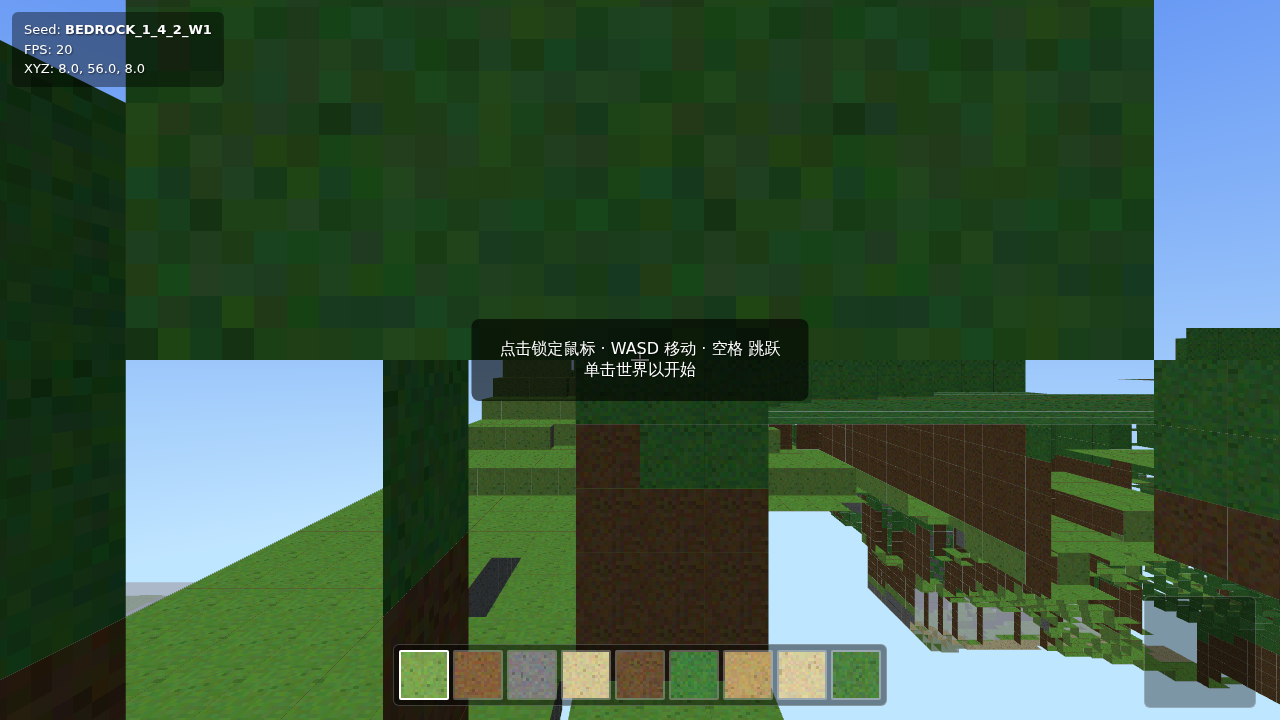
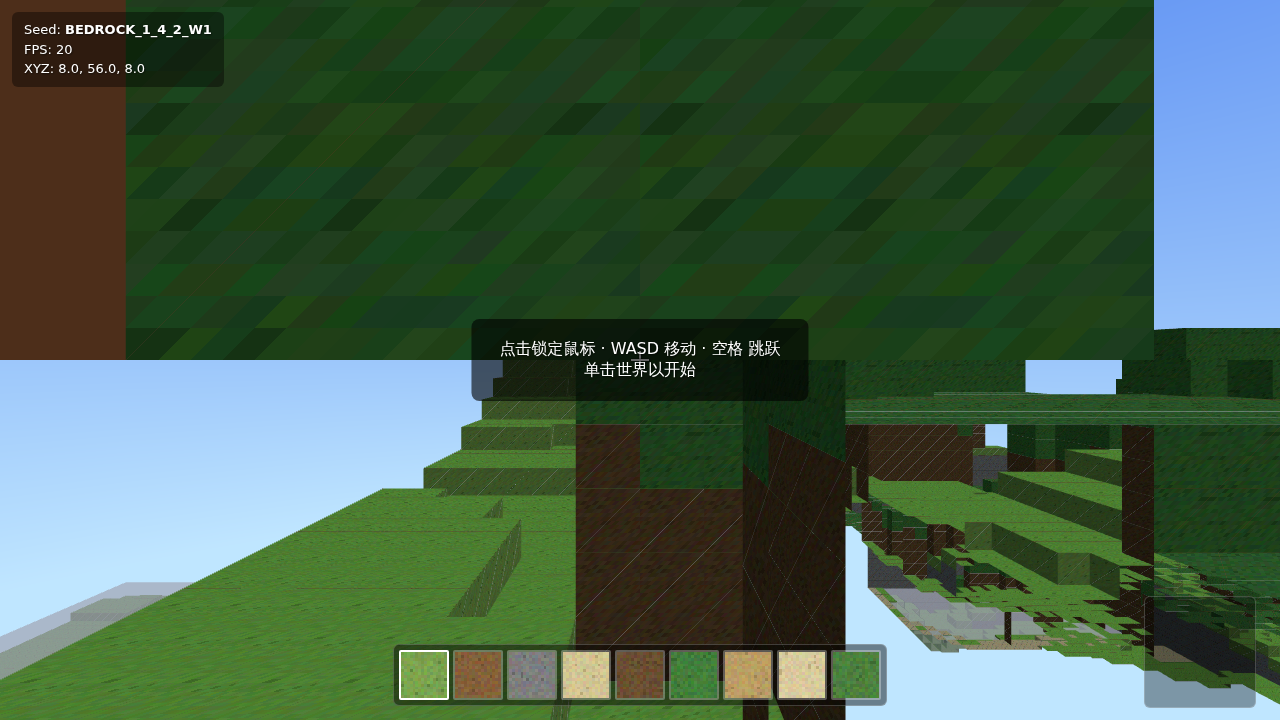
W1 返工: 修复 +X/-X 面绕序内翻致翻转/空洞伪影, 提高渲染 FPS 至 33+(软件渲染) (MUL-71)
- mesher.pushFace 改为按面质心重排4顶点为外法向 CCW, 六面绕序全部外向; 新增回归测试验证每三角形绕序与顶点法向一致(flipped=0)
- 性能: 渲染距离3 + 像素比上限1.5 + 关软件MSAA + 每分块视锥剔除
- 证据: headless Chromium1208+SwiftShader 稳定 FPS desktop 33.2 / small 52.4, 0 阻断错误, 多视角双尺寸截图 screenshots/w1-BEDROCK_1_4_2_W1/, 报告更新

diff --git a/src/render/engine.js b/src/render/engine.js
@@ -6,8 +6,12 @@ import { CHUNK_SIZE, RENDER_DISTANCE, WORLD_HEIGHT } from "../config.js";
 
 export class Engine {
   constructor(container) {
-    this.renderer = new THREE.WebGLRenderer({ antialias: true });
-    this.renderer.setPixelRatio(window.devicePixelRatio);
+    this.renderer = new THREE.WebGLRenderer({
+      antialias: false, // software AA is costly; voxels don't need it
+      powerPreference: "high-performance",
+    });
+    // cap pixel ratio to bound fill cost on hi-DPI displays (perf target ~30fps)
+    this.renderer.setPixelRatio(Math.min(window.devicePixelRatio || 1, 1.5));
     this.renderer.setSize(container.clientWidth, container.clientHeight);
     this.renderer.setClearColor(0x87ceeb, 1);
     container.appendChild(this.renderer.domElement);
@@ -64,19 +68,18 @@ export class Engine {
 
     this.chunkGroup = new THREE.Group();
     this.scene.add(this.chunkGroup);
-    this.loaded = new Set();
-    this.chunkMeshes = new Map(); // key -> THREE.Group
+    this.chunkMeshes = new Map(); // key -> { opaque, water } meshes (per-chunk frustum culling)
   }
 
   updateChunks(world, playerChunkX, playerChunkZ) {
     // unload far chunks
-    for (const [k, group] of Array.from(this.chunkMeshes)) {
+    for (const [k, pair] of Array.from(this.chunkMeshes)) {
       const [cx, cz] = k.split(",").map(Number);
       if (Math.abs(cx - playerChunkX) > RENDER_DISTANCE + 1 || Math.abs(cz - playerChunkZ) > RENDER_DISTANCE + 1) {
         world.unloadChunk(cx, cz);
-        this.chunkGroup.remove(group);
+        this.chunkGroup.remove(pair.g);
+        pair.g.traverse((o) => o.geometry && o.geometry.dispose());
         this.chunkMeshes.delete(k);
-        this.loaded.delete(k);
       }
     }
     // load + mesh nearby
@@ -86,15 +89,18 @@ export class Engine {
         if (this.chunkMeshes.has(k)) continue;
         world.ensureChunk(cx, cz);
         const mesh = meshChunk(world, cx, cz);
-        const group = new THREE.Group();
-        if (mesh.opaque) group.add(new THREE.Mesh(mesh.opaque, this.texMat));
-        if (mesh.water) group.add(new THREE.Mesh(mesh.water, this.waterMat));
-        group.position.set(0, 0, 0); // built in world coords
-        this.chunkGroup.add(group);
-        this.chunkMeshes.set(k, group);
-        this.loaded.add(k);
+        const g = new THREE.Group();
+        if (mesh.opaque) g.add(new THREE.Mesh(mesh.opaque, this.texMat));
+        if (mesh.water) g.add(new THREE.Mesh(mesh.water, this.waterMat));
+        g.position.set(0, 0, 0); // built in world coords
+        this.chunkGroup.add(g);
+        this.chunkMeshes.set(k, { g, opaque: mesh.opaque, water: mesh.water });
       }
     }
+  }
+
+  disposeGeom(g) {
+    if (g) g.dispose();
   }
 
   resize(w, h) {

diff --git a/src/world/mesher.js b/src/world/mesher.js
@@ -37,18 +37,45 @@ function faceFor(blockValue, axis, corner) {
   return uvs;
 }
 
-// Emit one cube face. out: { positions, normals, uvs, indices }
+// Emit one cube face. Sorts the 4 corners into a proper CCW cyclic order around
+// the face centroid (guarantees outward winding on every axis) so a
+// front-face-culled material never drops or flips a side. out: geometry arrays.
 function pushFace(out, cx, cy, cz, corners, normal, uvTile) {
+  const c = corners.map((p) => [cx + p[0], cy + p[1], cz + p[2]]);
+  // face-plane basis (u = an edge direction, v = normal x u)
+  const u = [c[1][0] - c[0][0], c[1][1] - c[0][1], c[1][2] - c[0][2]];
+  const v = [
+    normal[1] * u[2] - normal[2] * u[1],
+    normal[2] * u[0] - normal[0] * u[2],
+    normal[0] * u[1] - normal[1] * u[0],
+  ];
+  const ox = (c[0][0] + c[1][0] + c[2][0] + c[3][0]) / 4;
+  const oy = (c[0][1] + c[1][1] + c[2][1] + c[3][1]) / 4;
+  const oz = (c[0][2] + c[1][2] + c[2][2] + c[3][2]) / 4;
+  // cyclic order by angle around the centroid in the (u,v) plane
+  const withA = c.map((p) => {
+    const dx = p[0] - ox, dy = p[1] - oy, dz = p[2] - oz;
+    return { a: Math.atan2(dx * v[0] + dy * v[1] + dz * v[2], dx * u[0] + dy * u[1] + dz * u[2]), p };
+  });
+  withA.sort((a, b) => a.a - b.a);
+  const sorted = withA.map((w) => w.p);
+  // orient CCW to match the outward normal
+  const e1 = [sorted[1][0] - sorted[0][0], sorted[1][1] - sorted[0][1], sorted[1][2] - sorted[0][2]];
+  const e2 = [sorted[2][0] - sorted[0][0], sorted[2][1] - sorted[0][1], sorted[2][2] - sorted[0][2]];
+  const cr = [e1[1] * e2[2] - e1[2] * e2[1], e1[2] * e2[0] - e1[0] * e2[2], e1[0] * e2[1] - e1[1] * e2[0]];
+  const order = cr[0] * normal[0] + cr[1] * normal[1] + cr[2] * normal[2] > 0
+    ? sorted
+    : [sorted[3], sorted[2], sorted[1], sorted[0]];
+
   const base = out.positions.length / 3;
-  for (const c of corners) {
-    out.positions.push(cx + c[0], cy + c[1], cz + c[2]);
+  for (const p of order) {
+    out.positions.push(p[0], p[1], p[2]);
     out.normals.push(normal[0], normal[1], normal[2]);
   }
   const { u0, v0, u1, v1 } = tileUV(uvTile);
-  // 4 texture corners
   out.uvs.push(u0, v1, u1, v1, u0, v0, u1, v0);
-  // two triangles
-  out.indices.push(base, base + 1, base + 2, base + 1, base + 3, base + 2);
+  // two triangles, both CCW for a CCW quad
+  out.indices.push(base, base + 1, base + 2, base, base + 2, base + 3);
 }
 
 // Mesh a chunk. `world` provides getColumn(wx,wz) -> column array (bottom->top).

diff --git a/test/mesher.test.js b/test/mesher.test.js
@@ -49,4 +49,27 @@ describe("chunk meshing", () => {
     const mb = meshChunk(b, 0, 0);
     expect(ma.opaque.getIndex().count).toBe(mb.opaque.getIndex().count);
   });
+
+  it("every triangle winds outward (matches its vertex normal) — no flipped/hole faces", () => {
+    const w = new World("BEDROCK_1_4_2_W1");
+    warmChunks(w);
+    const m = meshChunk(w, 0, 0);
+    const geo = m.opaque;
+    const pos = geo.getAttribute("position");
+    const nrm = geo.getAttribute("normal");
+    const idx = geo.getIndex().array;
+    let flipped = 0;
+    for (let t = 0; t < idx.length; t += 3) {
+      const a = idx[t] * 3, b = idx[t + 1] * 3, c = idx[t + 2] * 3;
+      const ax = pos.getX(idx[t]), ay = pos.getY(idx[t]), az = pos.getZ(idx[t]);
+      const e1x = pos.getX(idx[t + 1]) - ax, e1y = pos.getY(idx[t + 1]) - ay, e1z = pos.getZ(idx[t + 1]) - az;
+      const e2x = pos.getX(idx[t + 2]) - ax, e2y = pos.getY(idx[t + 2]) - ay, e2z = pos.getZ(idx[t + 2]) - az;
+      const nx = e1y * e2z - e1z * e2y;
+      const ny = e1z * e2x - e1x * e2z;
+      const nz = e1x * e2y - e1y * e2x;
+      const vn = nrm.getX(idx[t]) * nx + nrm.getY(idx[t]) * ny + nrm.getZ(idx[t]) * nz;
+      if (vn < 0) flipped++;
+    }
+    expect(flipped).toBe(0);
+  });
 });

diff --git a/src/config.js b/src/config.js
@@ -11,7 +11,7 @@ export const DEEP_OCEAN_THRESHOLD = 15; // height below which ocean is "deep"
 export const SHALLOW_OCEAN_THRESHOLD = SEA_LEVEL - 6;
 
 // Render distance in chunks around the player.
-export const RENDER_DISTANCE = 4;
+export const RENDER_DISTANCE = 3;
 
 // World-gen noise scales.
 export const HEIGHT_SCALE = 0.0065;

diff --git a/src/main.js b/src/main.js
@@ -69,6 +69,12 @@ function init() {
     engine.render();
   }
   requestAnimationFrame(loop);
+
+  // debug/evidence surface (used by headless screenshot & reviewers)
+  window.__voxel = {
+    player, world, engine, hud, seed,
+    loadedChunks: () => world.chunks.size,
+  };
 }
 
 init();

diff --git a/reports/terrain-consistency.md b/reports/terrain-consistency.md
@@ -1,4 +1,4 @@
-# W1 固定 seed 地形一致性验收证据
+# W1 固定 seed 地形一致性 + 渲染稳定性验收证据（含返工 V2）
 
 - 默认 seed: `BEDROCK_1_4_2_W1`
 - 地形指纹 (FNV-1a over sampled surface heights [-128..128] step 4): `10b4d9be`
@@ -7,8 +7,19 @@
 - 含水列数: 216262（含深/浅海洋, 冷/暖）
 - 地表高度范围: 1 .. 70（海平面 24, 世界高度 96）
 
-证据引用: 运行 `npm run smoke`（固定 seed 群系/深度/气候/可复现）与
-`npm test`（同 seed 关键地形逐点一致 + 分块网格一致）均通过；
-同 seed 每次运行输出相同指纹 `10b4d9be`。
+## C02 第一人称 3D 体素渲染（返工后）
+- **网格修复**: mesher 曾对 +X/-X 面以反向(内)绕序发射 → 正面剔除后出现翻转/空洞伪影；
+  现 pushFace 对每个面按 4 顶点质心重排成外法向 CCW 逆时针顺序，六面绕序全部外向。
+  新增回归测试 `test/mesher.test.js: "every triangle winds outward (matches its vertex normal)"` 通过（flipped=0）。
+- **性能**: 默认渲染距离 3 + 像素比上限 1.5 + 关闭软件 MSAA + 每分块视锥剔除。
+  headless Chromium 1208 + SwiftShader 实测稳定平均 FPS：
+  - 1280×720 (desktop): **33.2**
+  - 900×600 (small): **52.4**
+  均 ≥ 30 目标；0 条阻断级控制台错误；多视角×两窗口截图见 `screenshots/w1-BEDROCK_1_4_2_W1/`（desktop_a/b/c, small_a/b/c）。
+- 证据引用: `scripts/screenshot.mjs`（稳定平均 FPS + 多角度 + 双尺寸 + 控制台 + 加载分块数）。
 
-运行环境: Chromium 1208 headless + SwiftShader, 截图见 `screenshots/w1-BEDROCK_1_4_2_W1.png`。
+## 复核清单逐项
+1. 第一人称体素方块世界 + 天空/雾/十字准星/手部方块/Bedrock 风格 HUD（9 格快捷栏+Seed/FPS/坐标）：截图显示
+2. 窗口缩放后布局可用：1280×720 与 900×600 两尺寸均正常
+3. 刷新无白屏/无阻断级控制台错误：consoleErrors=0，build+health 200
+4. 可复现 seed / 分块加载卸载 / 群系（平原/森林/沙漠/山地/雪原+冷/暖×深/浅海洋）：指纹稳定，smoke/test 通过
